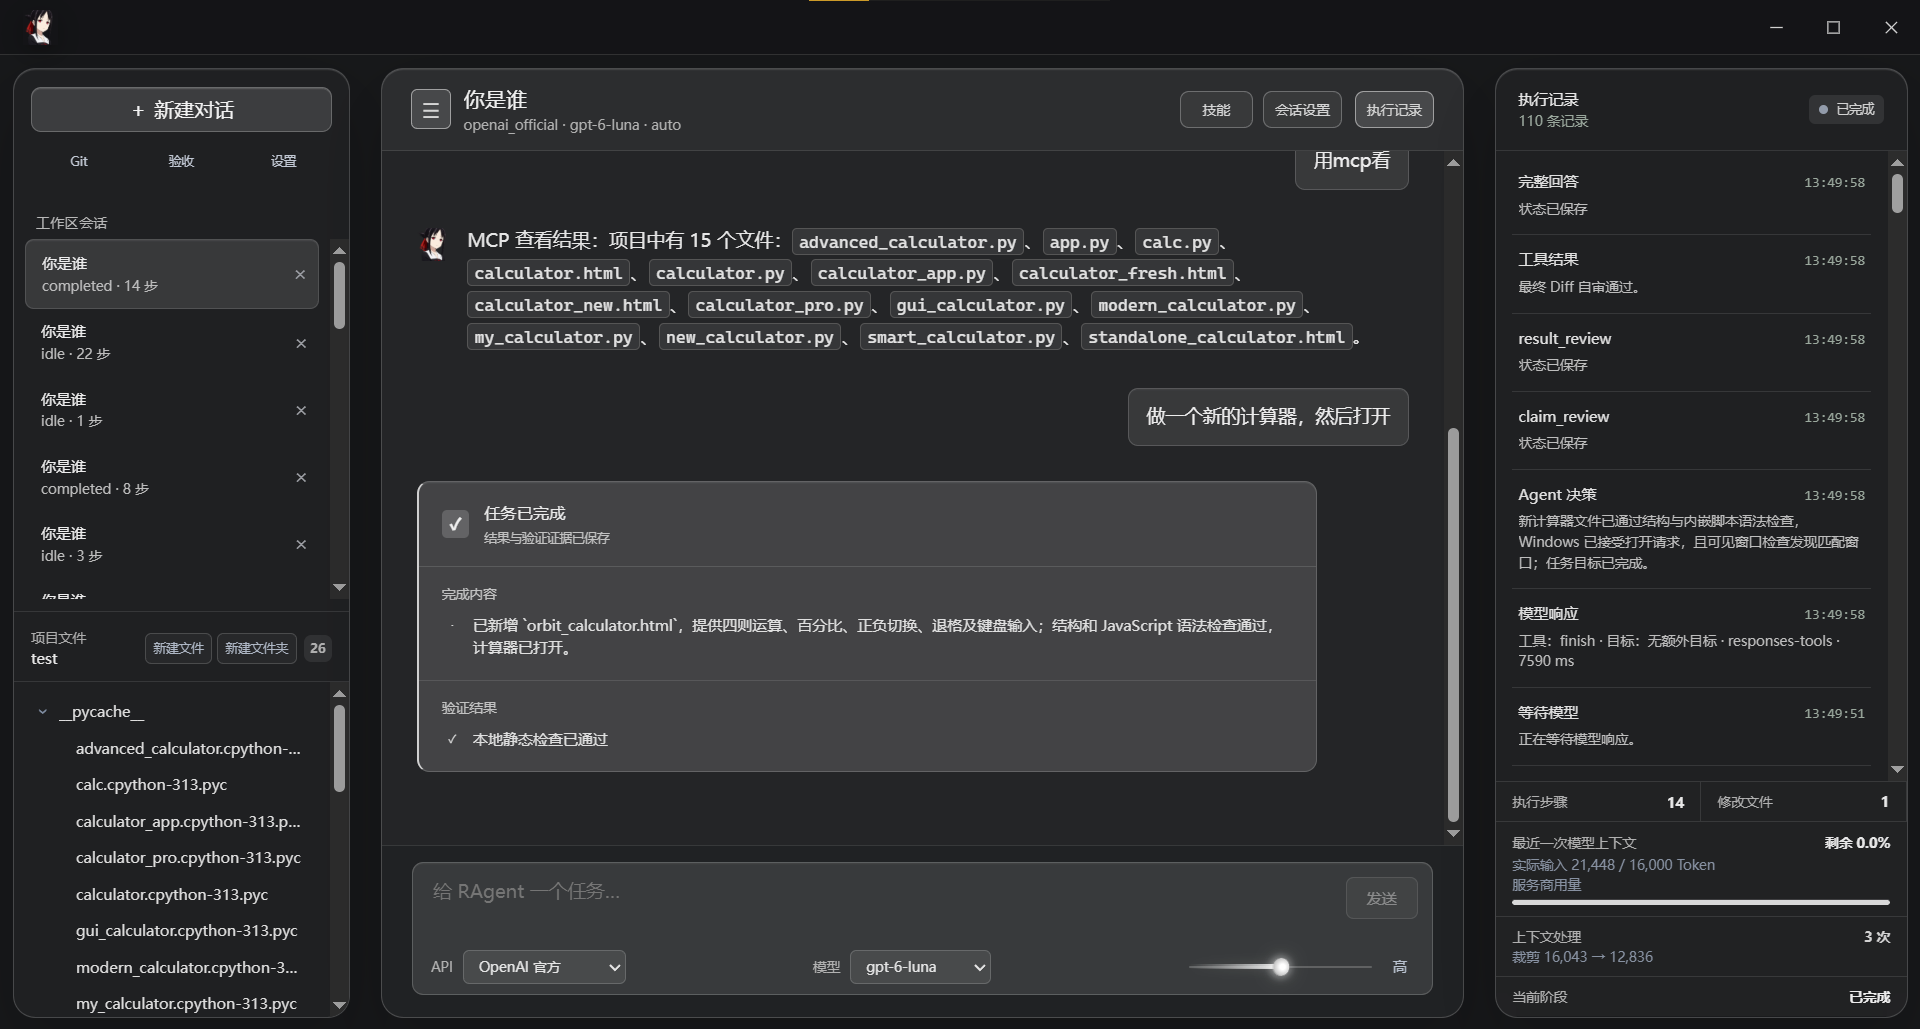
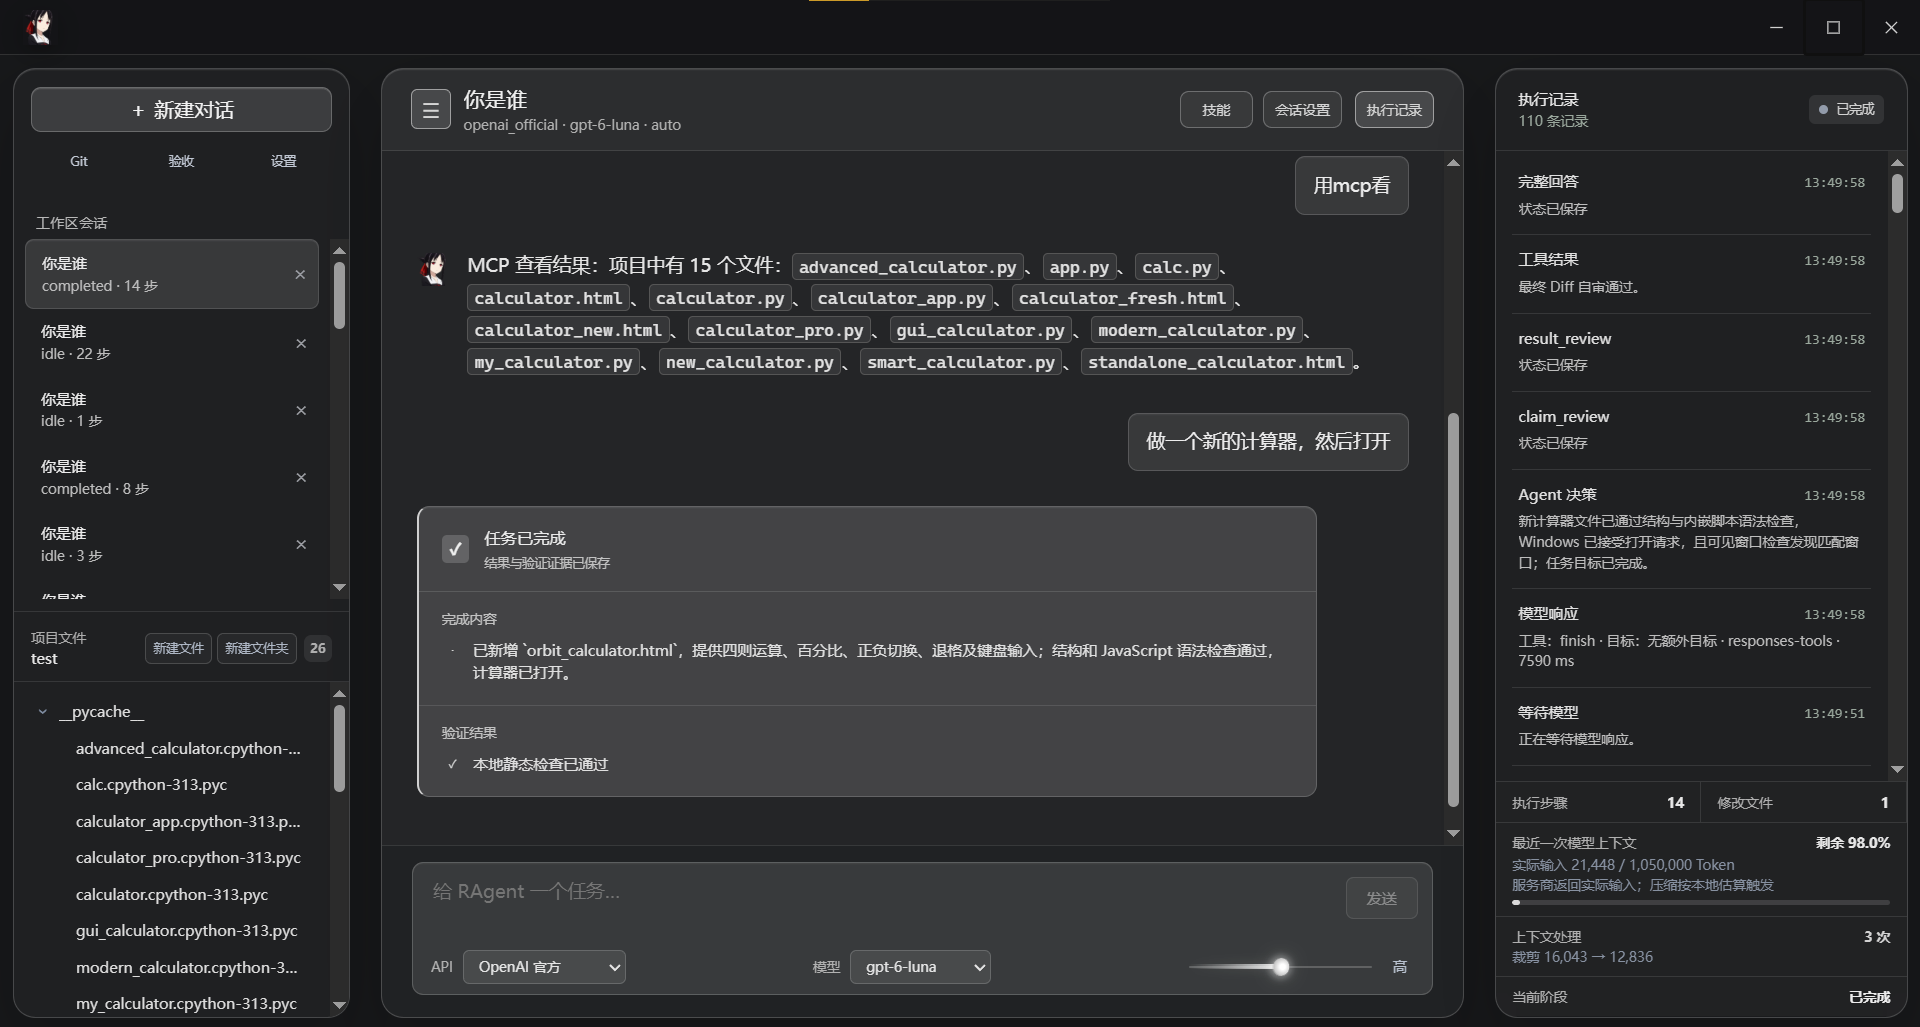
tokens修复

diff --git a/frontend/src/App.tsx b/frontend/src/App.tsx
@@ -315,7 +315,7 @@ function contextMetrics(events: Event[], estimated: number, actual: number | nul
   const percent = used ? Math.min(100, (used / limit) * 100) : null;
   const remaining = percent === null ? "—" : `剩余 ${Math.max(0, 100 - percent).toFixed(percent < 1 ? 2 : 1)}%`;
   const detail = used ? `${measured ? "实际输入" : "预估输入"} ${used.toLocaleString()} / ${limit.toLocaleString()} Token` : `尚无模型调用 · 上限 ${limit.toLocaleString()} Token`;
-  const actualDetail = measured ? "服务商用量" : running ? "实际用量待返回" : "实际用量未提供，压缩仍按估算触发";
+  const actualDetail = measured ? "服务商返回实际输入；压缩按本地估算触发" : running ? "实际用量待返回；压缩按本地估算触发" : "实际用量未提供；压缩按本地估算触发";
   return { percent, remaining, detail, actualDetail, compressions: compressions.length, latestCompression };
 }
 function projectName(path: string) { return path.replace(/[\\/]+$/, "").split(/[\\/]/).pop() || path; }

diff --git a/src/veripatch/studio_agent.py b/src/veripatch/studio_agent.py
@@ -93,11 +93,24 @@ MODEL_CONTEXT_WINDOWS = {
     ("openai", "gpt-5.6-terra"): 1_050_000,
     ("openai", "gpt-5.6-luna"): 1_050_000,
     ("openai_official", "gpt-6-astra"): 1_050_000,
+    # Keep the official model's context window separate from the conservative
+    # fallback used for unknown OpenAI-compatible proxy models.  Falling back
+    # to 16k here made the UI report a false limit for the official Luna model.
+    ("openai_official", "gpt-6-luna"): 1_050_000,
 }
 
 
 def context_limit_for_model(provider: str, model: str) -> int:
-    return MODEL_CONTEXT_WINDOWS.get((provider, model), DEFAULT_CONTEXT_LIMIT)
+    configured = MODEL_CONTEXT_WINDOWS.get((provider, model))
+    if configured is not None:
+        return configured
+    # OpenAI-compatible gateways expose the same GPT model families under a
+    # different provider key. The endpoint is not the context window: a proxy
+    # serving gpt-6-luna must use the GPT window, not the generic 16k fallback.
+    normalized = model.strip().casefold()
+    if provider in {"openai", "openai_official"} and normalized.startswith("gpt-"):
+        return 1_050_000
+    return DEFAULT_CONTEXT_LIMIT
 
 
 def _find_go_executable() -> str | None:

diff --git a/tests/test_studio.py b/tests/test_studio.py
@@ -68,6 +68,8 @@ def test_context_limit_uses_selected_model() -> None:
     assert context_limit_for_model("deepseek", "deepseek-v4-pro") == 1_000_000
     for model in ("gpt-5.6-sol", "gpt-5.6-terra", "gpt-5.6-luna"):
         assert context_limit_for_model("openai", model) == 1_050_000
+    assert context_limit_for_model("openai_official", "gpt-6-luna") == 1_050_000
+    assert context_limit_for_model("openai", "gpt-6-luna") == 1_050_000
     assert context_limit_for_model("openai", "unknown-proxy-model") == 16_000
 
 
